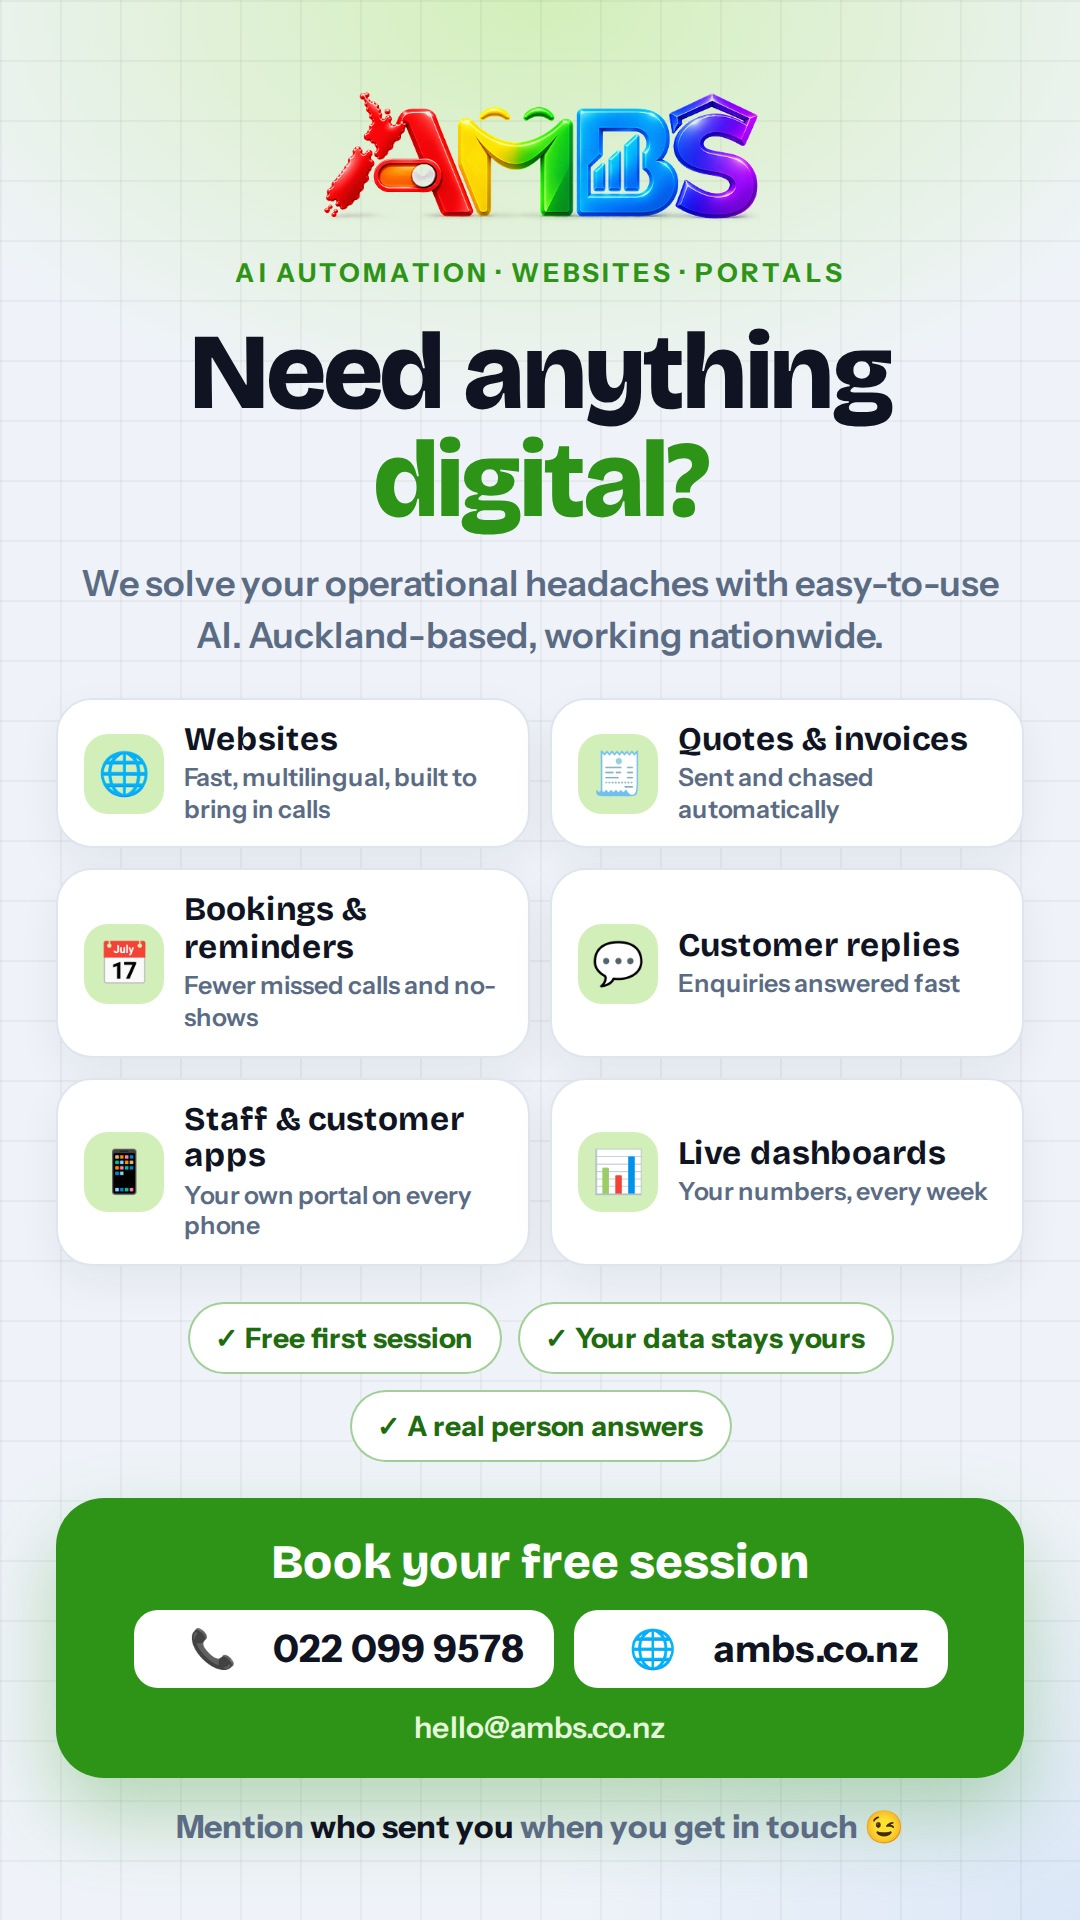
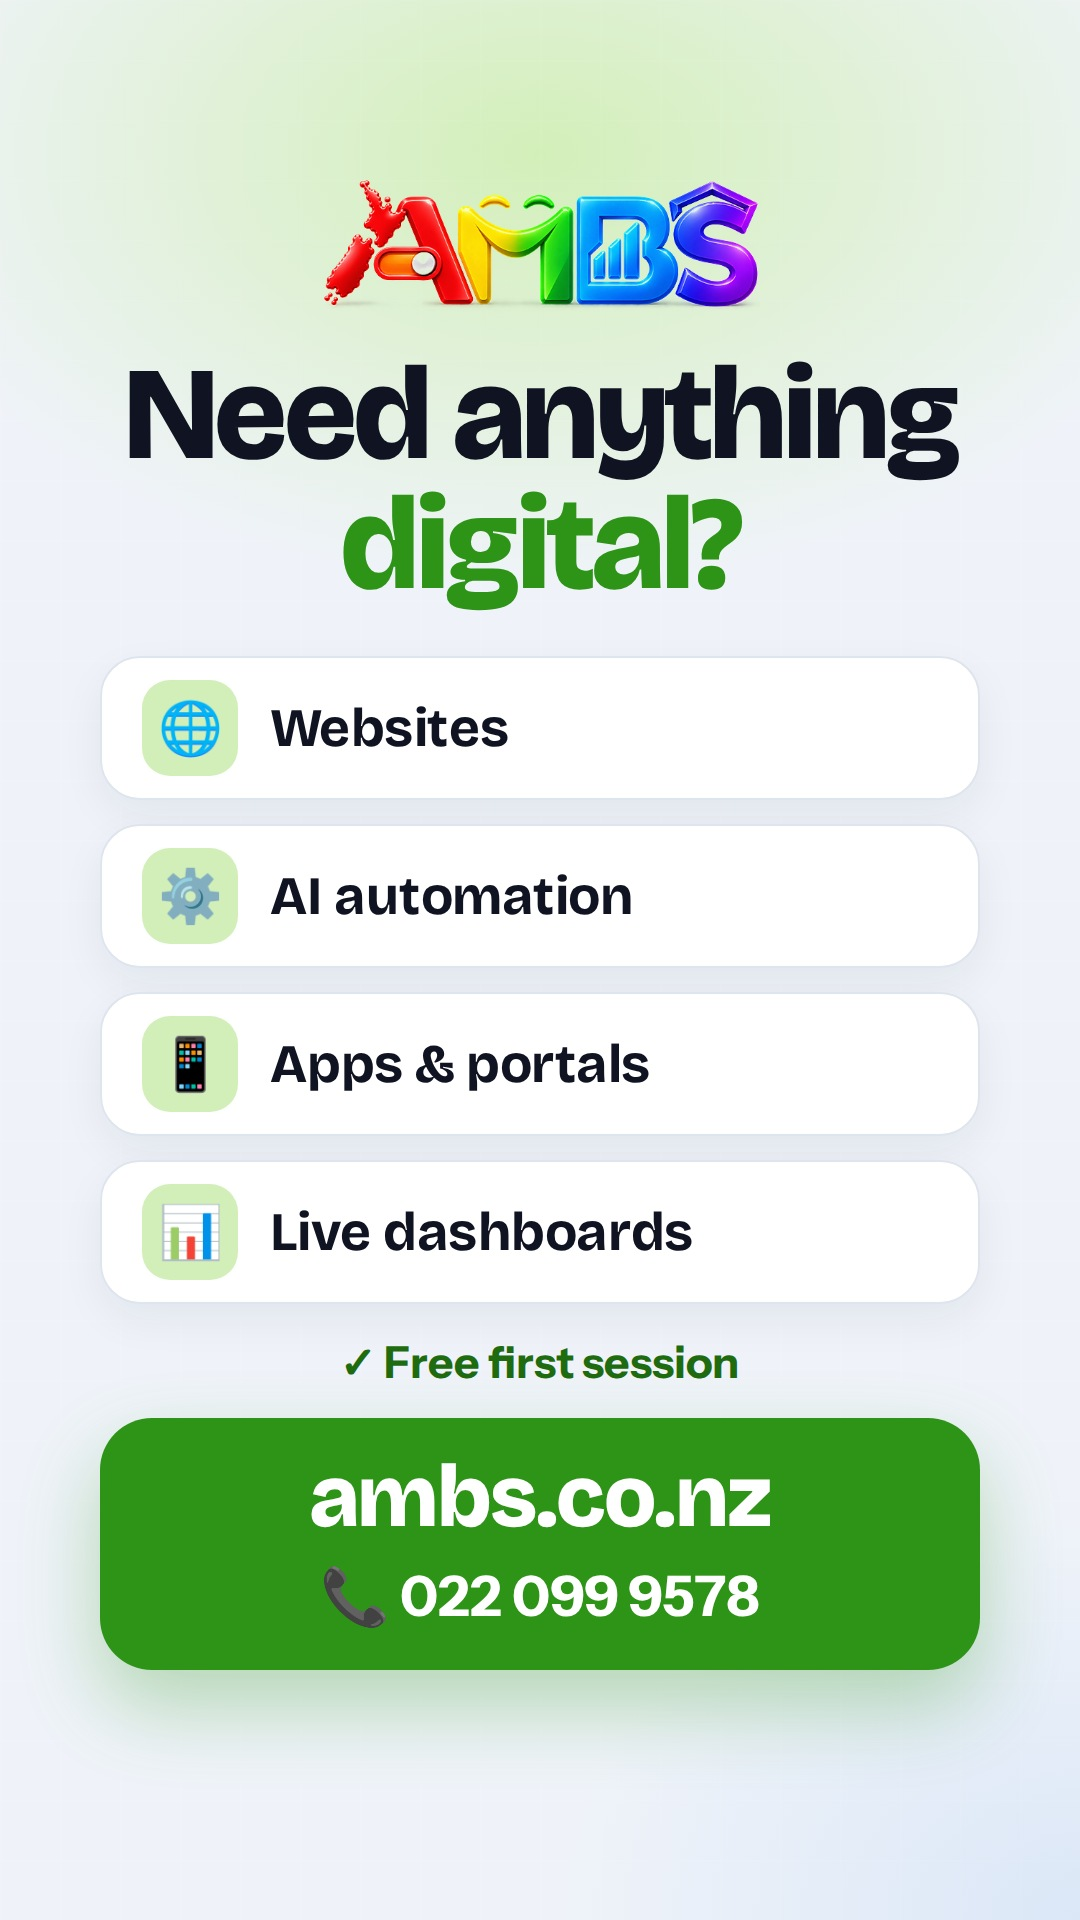
WhatsApp status: fewer words, bigger type, kept inside status safe zones
Claude-Session: https://claude.ai/code/session_01UEFq6Row7p6wmTAvf3EyaN

diff --git a/marketing-videos/posters/16-whatsapp-status.html b/marketing-videos/posters/16-whatsapp-status.html
@@ -2,52 +2,39 @@
 <html lang="en-NZ"><head><meta charset="utf-8"><title>Poster — WhatsApp status (any digital needs)</title>
 <link rel="stylesheet" href="../engine/base.css">
 <style>
-  /* 9:16 WhatsApp status in the ambs.co.nz brand: paper, ink, website green, and the site's own fonts. */
+  /* 9:16 WhatsApp status in the ambs.co.nz brand (paper, ink, website green, the site's fonts).
+     Built for status: few words, big type that survives WhatsApp's compression, and nothing important
+     in the top ~9% (name and progress bar) or bottom ~13% (reply box). */
   @font-face { font-family: "Bricolage Grotesque"; src: url("../assets/bricolage-grotesque-latin.woff2") format("woff2"); font-weight: 500 800; }
   @font-face { font-family: "Instrument Sans"; src: url("../assets/instrument-sans-latin.woff2") format("woff2"); font-weight: 400 700; }
   :root { --paper: #EFF3F9; --ink: #101321; --mu: #5B6B84; --g: #2E9418; --gd: #1f6b10; --soft: #D3EFB9; --line: #dfe5ee; }
   #frame { display: flex; flex-direction: column; align-items: center; text-align: center; color: var(--ink);
     font-family: "Instrument Sans", Inter, sans-serif, var(--emoji);
-    background: radial-gradient(90% 32% at 50% 0%, #D3EFB9 0%, transparent 70%), radial-gradient(70% 30% at 100% 100%, #dbe7f7 0%, transparent 70%), var(--paper); }
-  #frame::before { background-image: linear-gradient(rgba(16,19,33,.045) 1px, transparent 1px), linear-gradient(90deg, rgba(16,19,33,.045) 1px, transparent 1px); }
+    background: radial-gradient(90% 32% at 50% 8%, #D3EFB9 0%, transparent 70%), radial-gradient(70% 30% at 100% 100%, #dbe7f7 0%, transparent 70%), var(--paper); }
   .hd { font-family: "Bricolage Grotesque", Inter, sans-serif; }
-  .logo { position: relative; margin-top: 40px; width: 220px; }
-  .tagl { position: relative; margin-top: 8px; font-size: 13px; font-weight: 700; letter-spacing: .14em; color: var(--g); }
-  h1 { position: relative; margin-top: 16px; font-size: 54px; line-height: 1; font-weight: 800; letter-spacing: -.03em; }
+  .logo { position: relative; margin-top: 84px; width: 220px; }
+  h1 { position: relative; margin-top: 12px; font-size: 66px; line-height: .98; font-weight: 800; letter-spacing: -.035em; }
   h1 em { font-style: normal; color: var(--g); }
-  .sub { position: relative; margin-top: 12px; font-size: 18px; font-weight: 600; color: var(--mu); line-height: 1.4; padding: 0 30px; }
-  .grid { position: relative; margin-top: 18px; width: 484px; display: grid; grid-template-columns: 1fr 1fr; gap: 10px; text-align: left; }
-  .t { border-radius: 18px; padding: 11px 13px; background: #fff; border: 1px solid var(--line); box-shadow: 0 8px 22px rgba(16,19,33,.06); display: flex; gap: 10px; align-items: center; }
-  .t .e { width: 40px; height: 40px; flex: none; border-radius: 12px; background: var(--soft); display: grid; place-items: center; font-size: 21px; }
-  .t b { display: block; font-family: "Bricolage Grotesque", Inter, sans-serif; font-size: 16.5px; font-weight: 700; line-height: 1.12; }
-  .t span { display: block; font-size: 12.5px; color: var(--mu); font-weight: 600; margin-top: 2px; line-height: 1.25; }
-  .ok { position: relative; margin-top: 18px; display: flex; gap: 8px; flex-wrap: wrap; justify-content: center; width: 484px; }
-  .ok span { font-size: 14px; font-weight: 700; padding: 8px 13px; border-radius: 999px; background: #fff; border: 1px solid rgba(46,148,24,.45); color: var(--gd); }
-  .cta { position: relative; margin-top: 18px; width: 484px; border-radius: 24px; padding: 18px 18px 16px; background: var(--g); color: #fff;
+  .list { position: relative; margin-top: 22px; width: 440px; display: grid; gap: 12px; }
+  .it { display: flex; align-items: center; gap: 16px; padding: 11px 20px; border-radius: 20px; background: #fff; border: 1px solid var(--line);
+    box-shadow: 0 8px 22px rgba(16,19,33,.06); text-align: left; }
+  .it .e { width: 48px; height: 48px; flex: none; border-radius: 14px; background: var(--soft); display: grid; place-items: center; font-size: 26px; }
+  .it b { font-family: "Bricolage Grotesque", Inter, sans-serif; font-size: 27px; font-weight: 700; letter-spacing: -.01em; }
+  .free { position: relative; margin-top: 16px; font-size: 22px; font-weight: 700; color: var(--gd); }
+  .cta { position: relative; margin-top: 14px; width: 440px; border-radius: 26px; padding: 18px 18px 20px; background: var(--g); color: #fff;
     box-shadow: 0 18px 40px rgba(46,148,24,.3); }
-  .cta .l1 { font-family: "Bricolage Grotesque", Inter, sans-serif; font-size: 24px; font-weight: 800; }
-  .cta .l2 { margin-top: 10px; display: flex; justify-content: center; gap: 10px; }
-  .cta .l2 span { font-size: 19px; font-weight: 700; padding: 8px 14px; border-radius: 12px; background: #fff; color: var(--ink); }
-  .cta .l3 { margin-top: 10px; font-size: 15px; font-weight: 600; color: #e6f7dc; }
-  .tag { position: relative; margin-top: 14px; font-size: 16px; font-weight: 700; color: var(--mu); }
-  .tag b { color: var(--ink); }
+  .cta .w { font-family: "Bricolage Grotesque", Inter, sans-serif; font-size: 44px; font-weight: 800; letter-spacing: -.02em; line-height: 1; }
+  .cta .p { margin-top: 10px; font-size: 28px; font-weight: 700; }
 </style></head><body>
 <div id="frame">
   <img class="logo" src="../assets/ambs-logo.png" alt="AMBS Solutions">
-  <div class="tagl">AI AUTOMATION · WEBSITES · PORTALS</div>
   <h1 class="hd">Need anything<br><em>digital?</em></h1>
-  <div class="sub">We solve your operational headaches with easy-to-use AI. Auckland-based, working nationwide.</div>
-  <div class="grid">
-    <div class="t"><div class="e emoji">🌐</div><div><b>Websites</b><span>Fast, multilingual, built to bring in calls</span></div></div>
-    <div class="t"><div class="e emoji">🧾</div><div><b>Quotes &amp; invoices</b><span>Sent and chased automatically</span></div></div>
-    <div class="t"><div class="e emoji">📅</div><div><b>Bookings &amp; reminders</b><span>Fewer missed calls and no-shows</span></div></div>
-    <div class="t"><div class="e emoji">💬</div><div><b>Customer replies</b><span>Enquiries answered fast</span></div></div>
-    <div class="t"><div class="e emoji">📱</div><div><b>Staff &amp; customer apps</b><span>Your own portal on every phone</span></div></div>
-    <div class="t"><div class="e emoji">📊</div><div><b>Live dashboards</b><span>Your numbers, every week</span></div></div>
+  <div class="list">
+    <div class="it"><div class="e emoji">🌐</div><b>Websites</b></div>
+    <div class="it"><div class="e emoji">⚙</div><b>AI automation</b></div>
+    <div class="it"><div class="e emoji">📱</div><b>Apps &amp; portals</b></div>
+    <div class="it"><div class="e emoji">📊</div><b>Live dashboards</b></div>
   </div>
-  <div class="ok"><span>✓ Free first session</span><span>✓ Your data stays yours</span><span>✓ A real person answers</span></div>
-  <div class="cta"><div class="l1">Book your free session</div>
-    <div class="l2"><span><span class="emoji">📞</span> 022 099 9578</span><span><span class="emoji">🌐</span> ambs.co.nz</span></div>
-    <div class="l3">hello@ambs.co.nz</div></div>
-  <div class="tag">Mention <b>who sent you</b> when you get in touch <span class="emoji">😉</span></div>
+  <div class="free">✓ Free first session</div>
+  <div class="cta"><div class="w">ambs.co.nz</div><div class="p"><span class="emoji">📞</span> 022 099 9578</div></div>
 </div></body></html>
